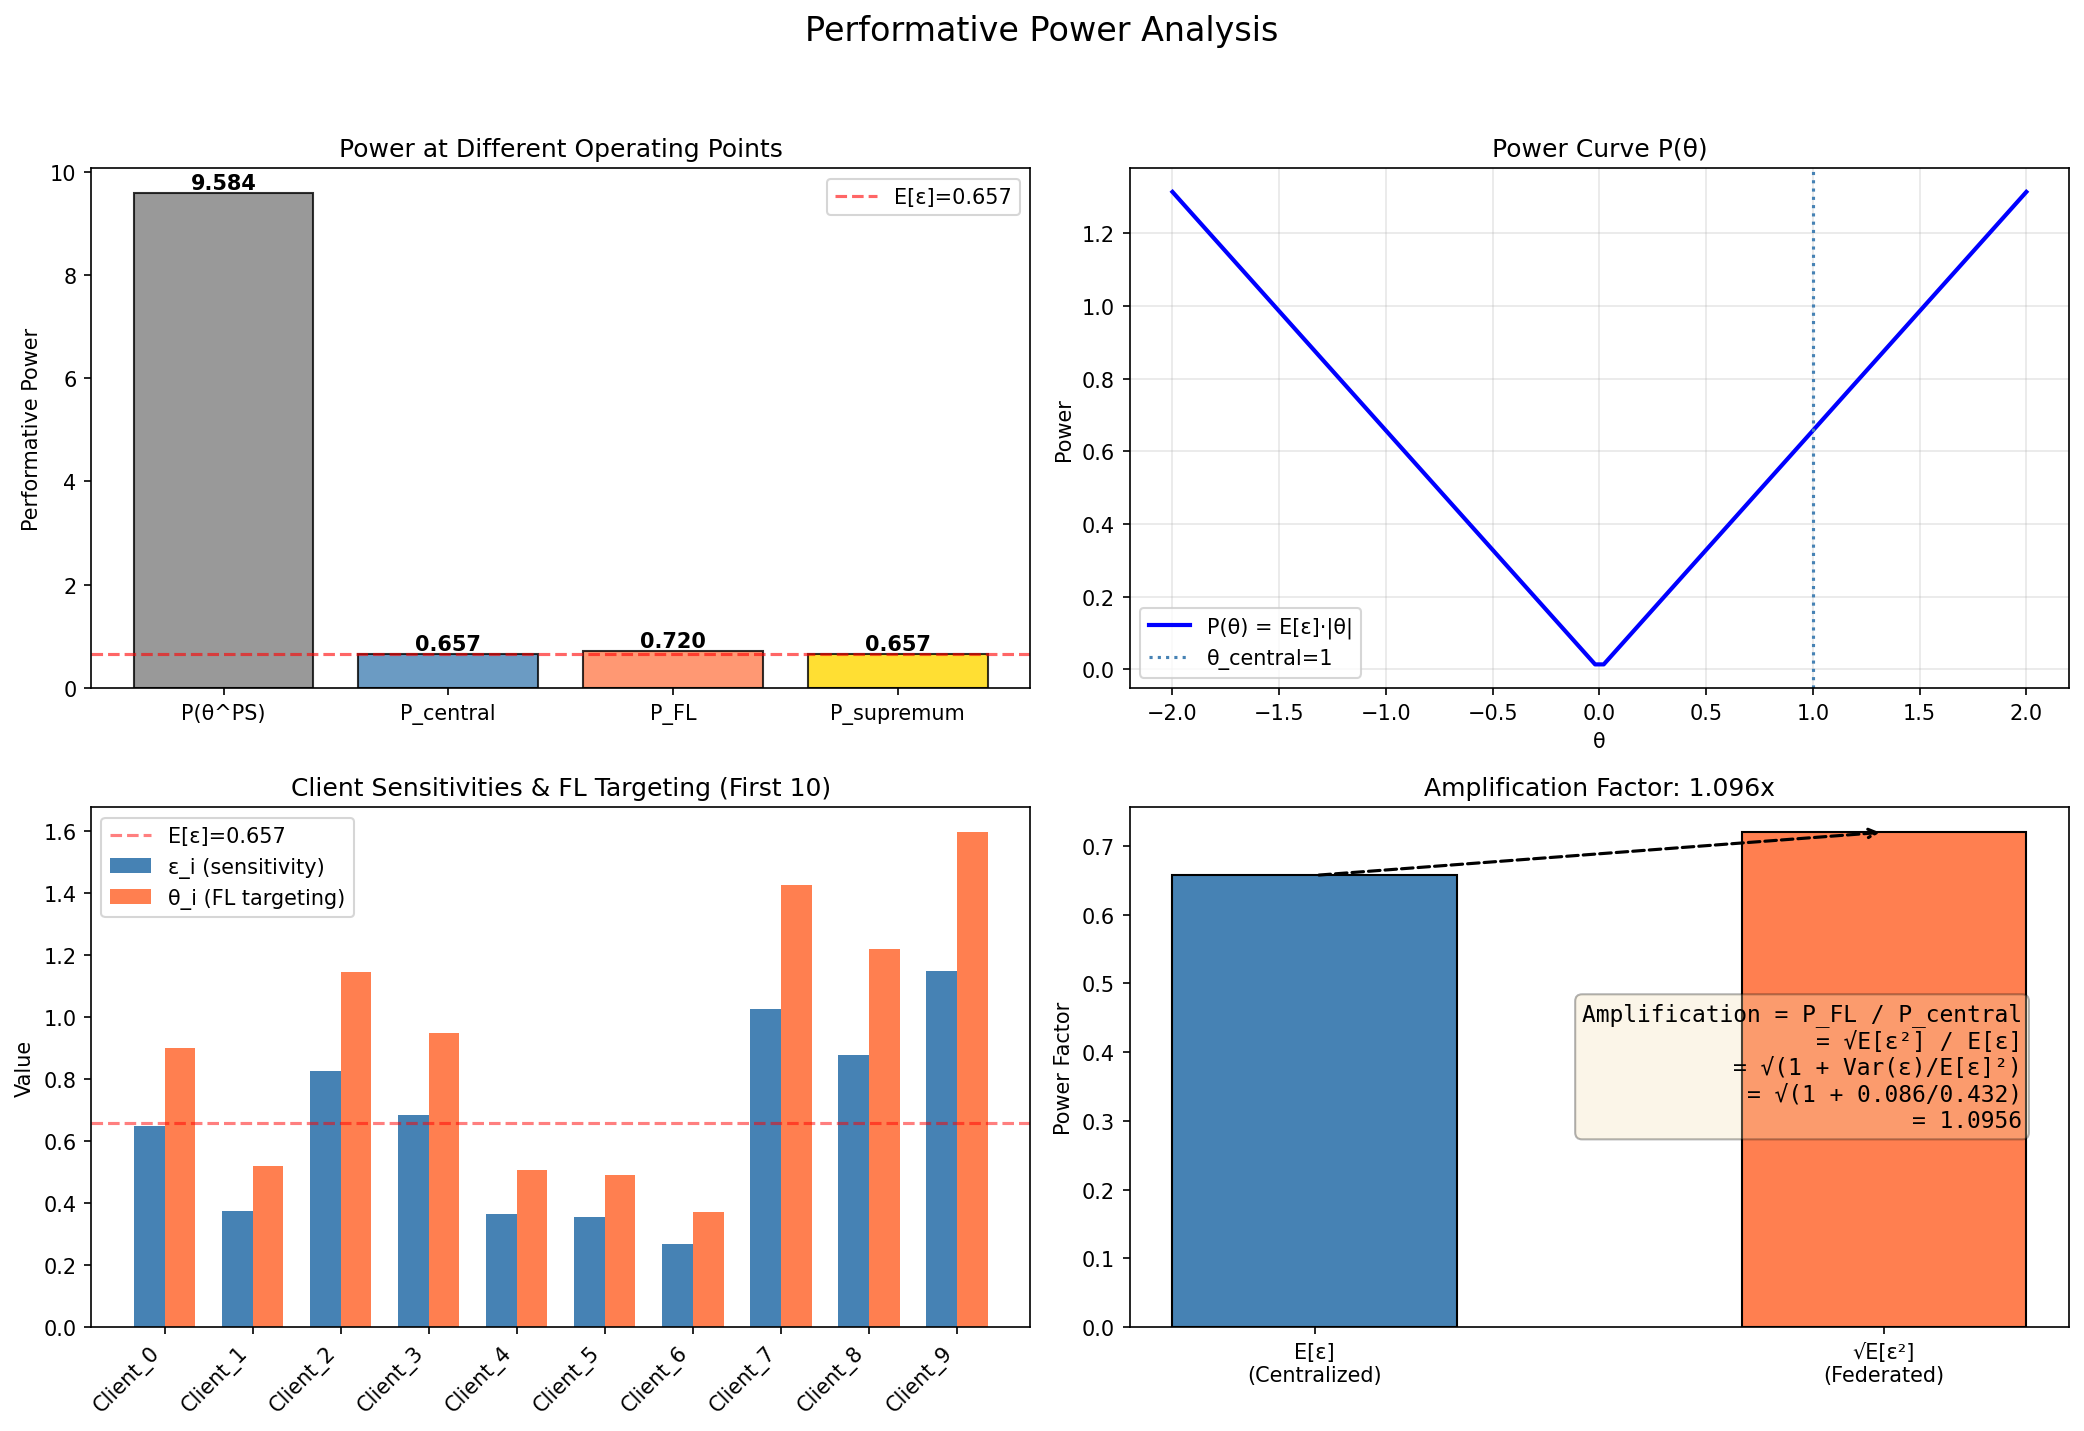
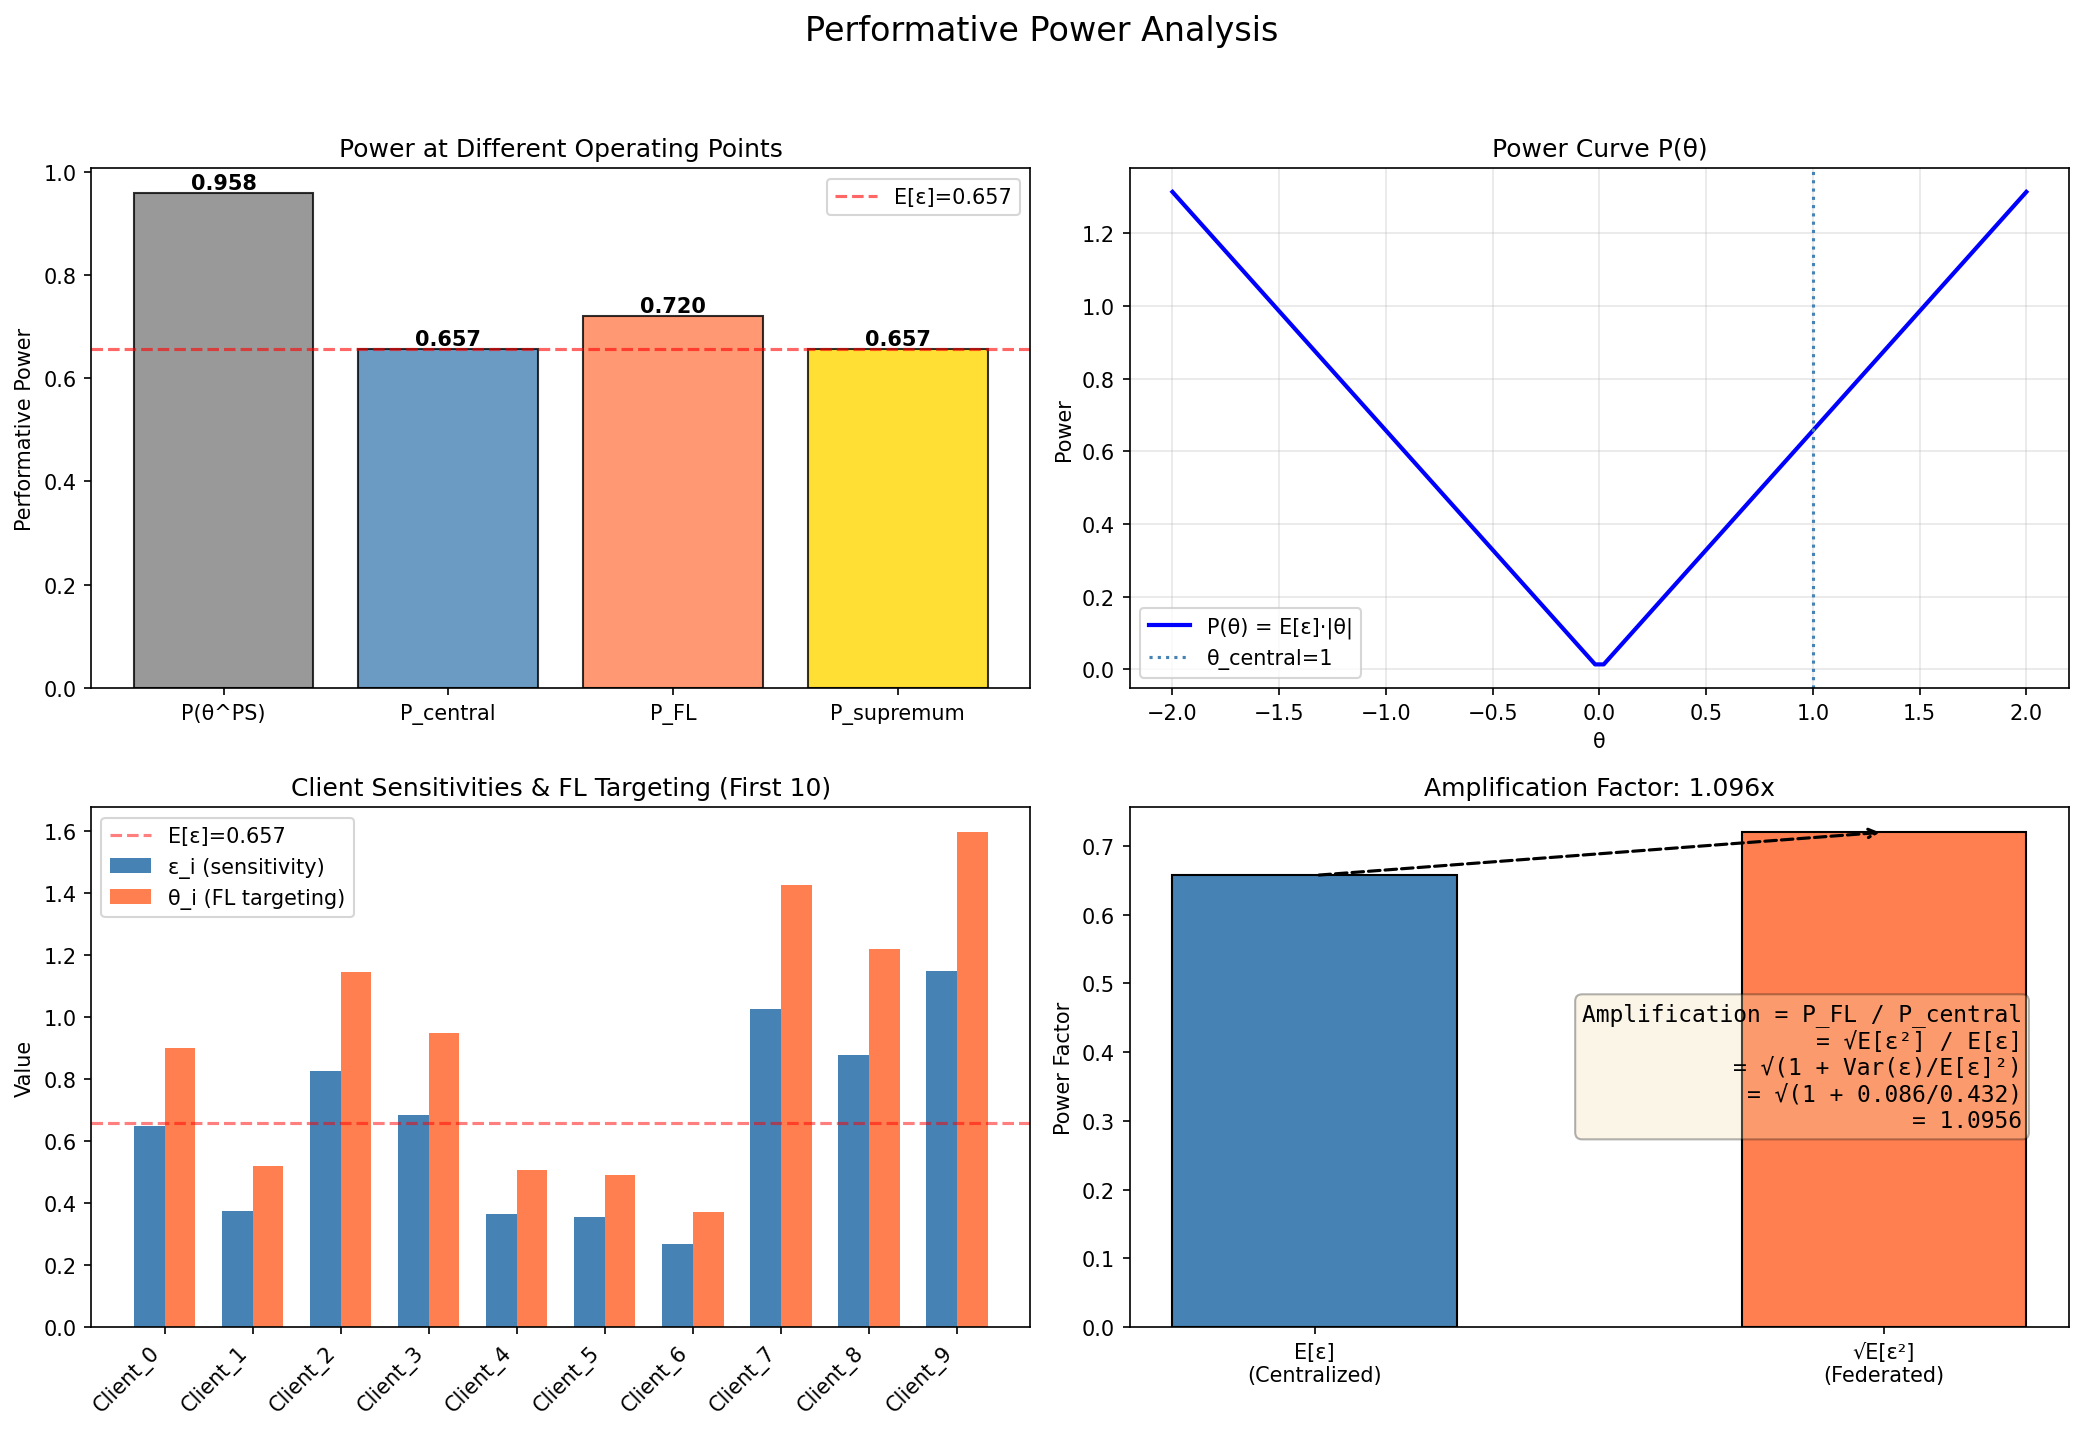
Added to files

Changed region(s): [[0.156, 0.1845, 0.499, 0.4612], [0.0, 0.246, 0.0312, 0.369], [0.0936, 0.123, 0.1248, 0.1537]]

diff --git a/predictive_fl.py b/predictive_fl.py
@@ -690,7 +690,7 @@ def plot_power_comparison(power_results: Dict, population: Population, save_path
     
     points = ['P(θ^PS)', 'P_central', 'P_FL', 'P_supremum']
     values = [
-        power_results['P_at_PS'],
+        power_results['P_at_PS']/len(population.client_epsilons),
         power_results['P_central'],
         power_results['P_FL'],
         power_results['P_supremum']
